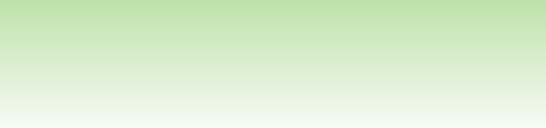
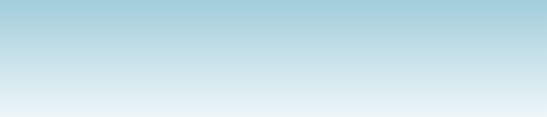
prettyblue

diff --git a/MyCss.css b/MyCss.css
@@ -13,7 +13,7 @@ h2 {
 
 #theFooter {
 	display:inline-block;
-	border-top: 5px solid #395A18;
+	border-top: 5px solid #0E194E;
 	width: 100%;
 	height: 25%;
 }
@@ -26,11 +26,12 @@ h2 {
 
 #GreenText{
 	font-size: 20;
-	color: #33CC00;
+	color: #0E194E;
 }
 
 body{
-	background-image: url("cubes2.jpg");
+	background-image: url("bbackground.jpg");
+	background-size: 1300px 2000px;
 }
 
 .footerText {
@@ -57,13 +58,14 @@ body{
     padding:10px;
     font-family: Georgia;
     font-weight: bold;
-    border-bottom-color: #395A18;
+    border-bottom-color: #0E194E;
     border-bottom-width: 2px;
     border-bottom-style: inset;
 }
 
 .title {
 	margin-left: 80px;
+	color: #0E194E;
 }
 
 #sdlogo {
@@ -88,7 +90,7 @@ body{
    padding: .3em .4em .3em .4em; 
    text-decoration: none; 
    font-size: 20px; 
-   color: #004415; 
+   color: #0E194E; 
    font-family: Georgia;
 
 }
@@ -114,7 +116,7 @@ body{
 	background-image: url("nav.jpg");
     width: 100%; 
     text-align: center; 
-    border-bottom-color: #395A18;
+    border-bottom-color: #0E194E;
     border-bottom-width: 2px;
     border-bottom-style: inset;
 }
@@ -144,7 +146,7 @@ body{
 	color: #000000;
 	opacity: 0.75;
 	border-radius: 10px;
-    border-color: #395A18;
+    border-color: #0E194E;
     border-width: 2px;
     border-style: ridge;
 }
@@ -164,7 +166,7 @@ body{
 	margin-right: 25%;
 	border-radius: 25px;
 	padding: 20px;
-    border: 2px solid #395A18;
+    border: 2px solid #0E194E;
     margin-bottom: 2%;
 }
 
@@ -175,7 +177,7 @@ body{
 	margin-right: 25%;
 	border-radius: 25px;
 	padding: 20px;
-	border: 2px solid #395A18;
+	border: 2px solid #0E194E;
 	margin-bottom: 2%;
 }
 
